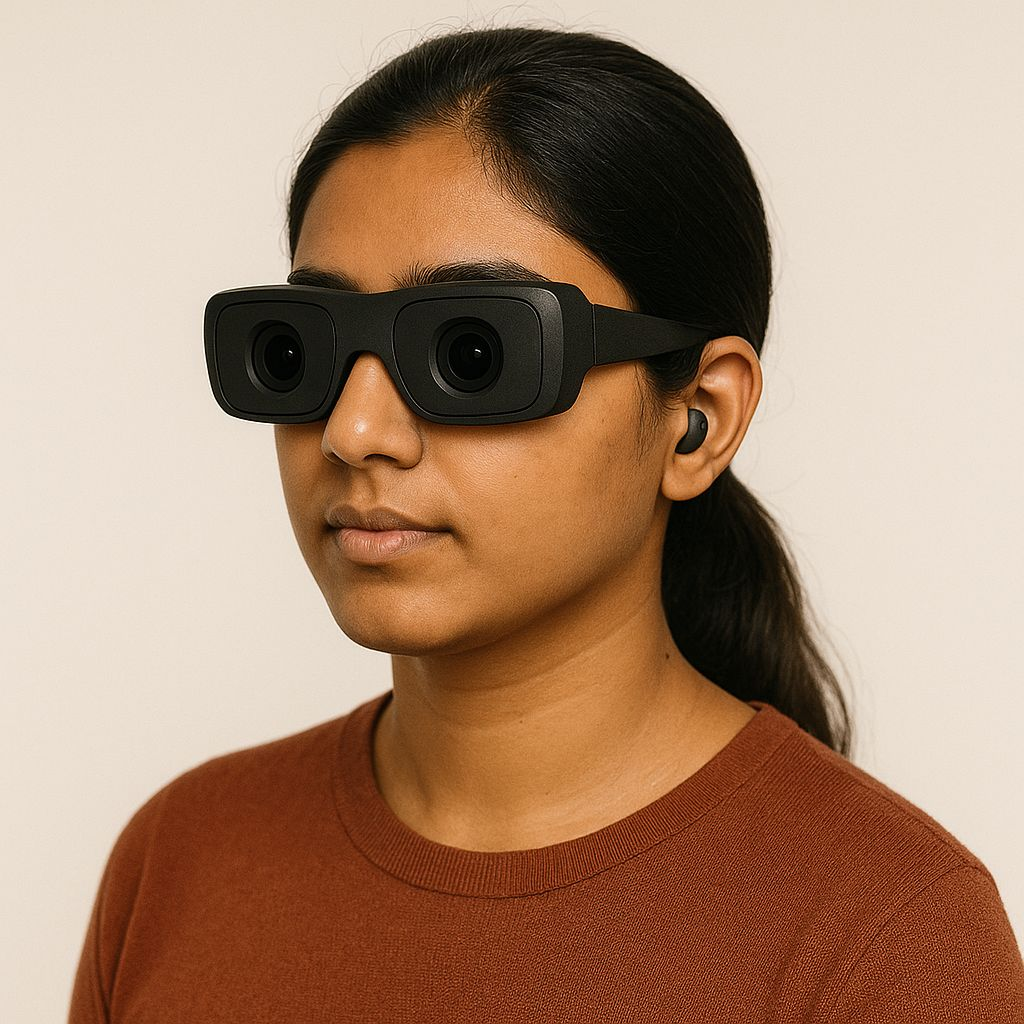
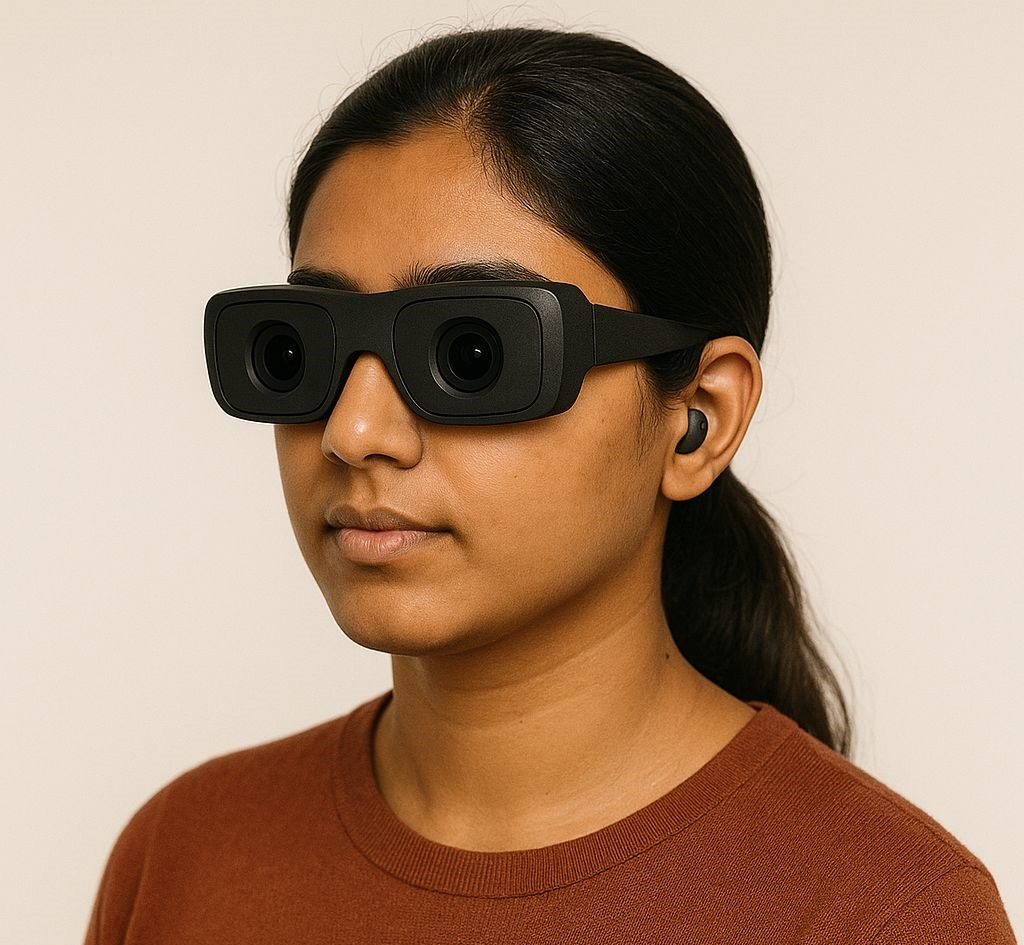
image

Changed region(s): [[0.0625, 0.0, 1.0, 1.0]]

diff --git a/src/app/landing2/components/NewsSection.tsx b/src/app/landing2/components/NewsSection.tsx
@@ -50,13 +50,23 @@ export default function NewsSection() {
               border: `1px solid ${COLORS.landing2.cardBorder}`,
             }}
           >
-            <div className="w-full h-40 sm:h-48 rounded-lg mb-4 overflow-hidden">
+            {/* <div className="w-full h-40 sm:h-48 rounded-lg mb-4 overflow-hidden">
               <img
                 src="/images/manWithGlasses.jpg"
                 alt="Smart glasses technology"
                 className="w-full h-full object-cover hover:scale-110 transition-transform duration-300"
               />
-            </div>
+            </div> */}
+                        <div className="w-full h-74 flex items-center justify-center bg-black">
+  <img
+  src="/images/manWithGlasses.jpg"
+                alt="Smart glasses technology"
+    className="max-h-full max-w-full object-contain"
+    style={{
+      filter: "brightness(0.95) contrast(1.05)",
+    }}
+  />
+</div>
             <p
               className="text-xs sm:text-sm mb-2"
               style={{ color: COLORS.landing2.accent }}
@@ -94,13 +104,24 @@ export default function NewsSection() {
               border: `1px solid ${COLORS.landing2.cardBorder}`,
             }}
           >
-            <div className="w-full h-40 sm:h-48 rounded-lg mb-4 overflow-hidden">
+            {/* <div className="w-full h-40 sm:h-48 rounded-lg mb-4 overflow-hidden">
               <img
                 src="https://images.unsplash.com/photo-1456081101716-74e616ab23d8?w=600&auto=format&fit=crop&q=60"
                 alt="Man using assistive technology"
                 className="w-full h-full object-cover hover:scale-110 transition-transform duration-300"
               />
-            </div>
+            </div> */}
+            <div className="w-full h-64 flex items-center justify-center bg-black">
+  <img
+   src="https://images.unsplash.com/photo-1456081101716-74e616ab23d8?w=600&auto=format&fit=crop&q=60"
+    alt="Man using assistive technology"
+    className="max-h-full max-w-full object-contain"
+    style={{
+      filter: "brightness(0.95) contrast(1.05)",
+    }}
+  />
+</div>
+
             <p
               className="text-xs sm:text-sm mb-2"
               style={{ color: COLORS.landing2.accent }}
@@ -138,13 +159,23 @@ export default function NewsSection() {
               border: `1px solid ${COLORS.landing2.cardBorder}`,
             }}
           >
-            <div className="w-full h-40 sm:h-48 rounded-lg mb-4 overflow-hidden">
+            {/* <div className="w-full h-40 sm:h-48 rounded-lg mb-4 overflow-hidden">
               <img
                 src="/images/uncleWithGlasses.jpg"
                 alt="Woman with smart glasses"
                 className="w-full h-full object-cover hover:scale-110 transition-transform duration-300"
               />
-            </div>
+            </div> */}
+                  <div className="w-full h-74 flex items-center justify-center bg-black">
+  <img
+    src="/images/uncleWithGlasses.jpg"
+                alt="Woman with smart glasses"
+    className="max-h-full max-w-full object-contain"
+    style={{
+      filter: "brightness(0.95) contrast(1.05)",
+    }}
+  />
+</div>
             <p
               className="text-xs sm:text-sm mb-2"
               style={{ color: COLORS.landing2.accent }}

diff --git a/src/app/landing2/components/ProductsSection.tsx b/src/app/landing2/components/ProductsSection.tsx
@@ -215,7 +215,7 @@ export default function ProductsSection() {
 
                     {/* Right Side - Product Image (Even products) */}
                     <div className="hidden lg:flex flex-1 justify-center">
-                      <div className="relative w-full max-w-[500px] xl:max-w-[600px] h-[400px] xl:h-[500px] rounded-lg overflow-hidden">
+                      {/* <div className="relative w-full max-w-[500px] xl:max-w-[600px] h-[400px] xl:h-[500px] rounded-lg overflow-hidden">
                         <img
                           src={product.image}
                           alt={product.imageAlt}
@@ -224,14 +224,25 @@ export default function ProductsSection() {
                             filter: "brightness(0.95) contrast(1.05)",
                           }}
                         />
-                      </div>
+                      </div> */}
+                      <div className="w-full h-91 flex items-center justify-center bg-black">
+  <img
+    src={product.image}
+    alt={product.imageAlt}
+    className="max-h-full max-w-full object-contain"
+    style={{
+      filter: "brightness(0.95) contrast(1.05)",
+    }}
+  />
+</div>
+
                     </div>
                   </>
                 ) : (
                   <>
                     {/* Left Side - Product Image (Odd products) */}
                     <div className="hidden lg:flex flex-1 justify-center">
-                      <div className="relative w-full max-w-[500px] xl:max-w-[600px] h-[400px] xl:h-[500px] rounded-lg overflow-hidden">
+                      {/* <div className="relative w-full max-w-[500px] xl:max-w-[600px] h-[400px] xl:h-[500px] rounded-lg overflow-hidden">
                         <img
                           src={product.image}
                           alt={product.imageAlt}
@@ -240,7 +251,18 @@ export default function ProductsSection() {
                             filter: "brightness(0.95) contrast(1.05)",
                           }}
                         />
-                      </div>
+                      </div> */}
+                      <div className="w-full h-126 flex items-center justify-center bg-black">
+  <img
+    src={product.image}
+    alt={product.imageAlt}
+    className="max-h-full max-w-full object-contain"
+    style={{
+      filter: "brightness(0.95) contrast(1.05)",
+    }}
+  />
+</div>
+
                     </div>
 
                     {/* Right Side - Text Content (Odd products) */}

diff --git a/src/app/landing2/components/HeroSection.tsx b/src/app/landing2/components/HeroSection.tsx
@@ -86,7 +86,7 @@ export default function HeroSection() {
             </div>
 
             {/* Hero Image */}
-            <div className="relative z-10 w-full h-full rounded-lg overflow-hidden">
+            {/* <div className="relative z-10 w-full h-full rounded-lg overflow-hidden">
               <img
                 src="/images/glasses.jpg"
                 alt="Person wearing smart glasses"
@@ -95,7 +95,18 @@ export default function HeroSection() {
                   filter: "brightness(0.9) contrast(1.1)",
                 }}
               />
-            </div>
+            </div> */}
+            <div className="w-full h-132 flex items-center justify-center bg-black">
+  <img
+     src="/images/glasses.jpg"
+                alt="Person wearing smart glasses"
+    className="max-h-full max-w-full object-contain"
+    style={{
+      filter: "brightness(0.95) contrast(1.05)",
+    }}
+  />
+</div>
+
           </div>
         </div>
       </div>
